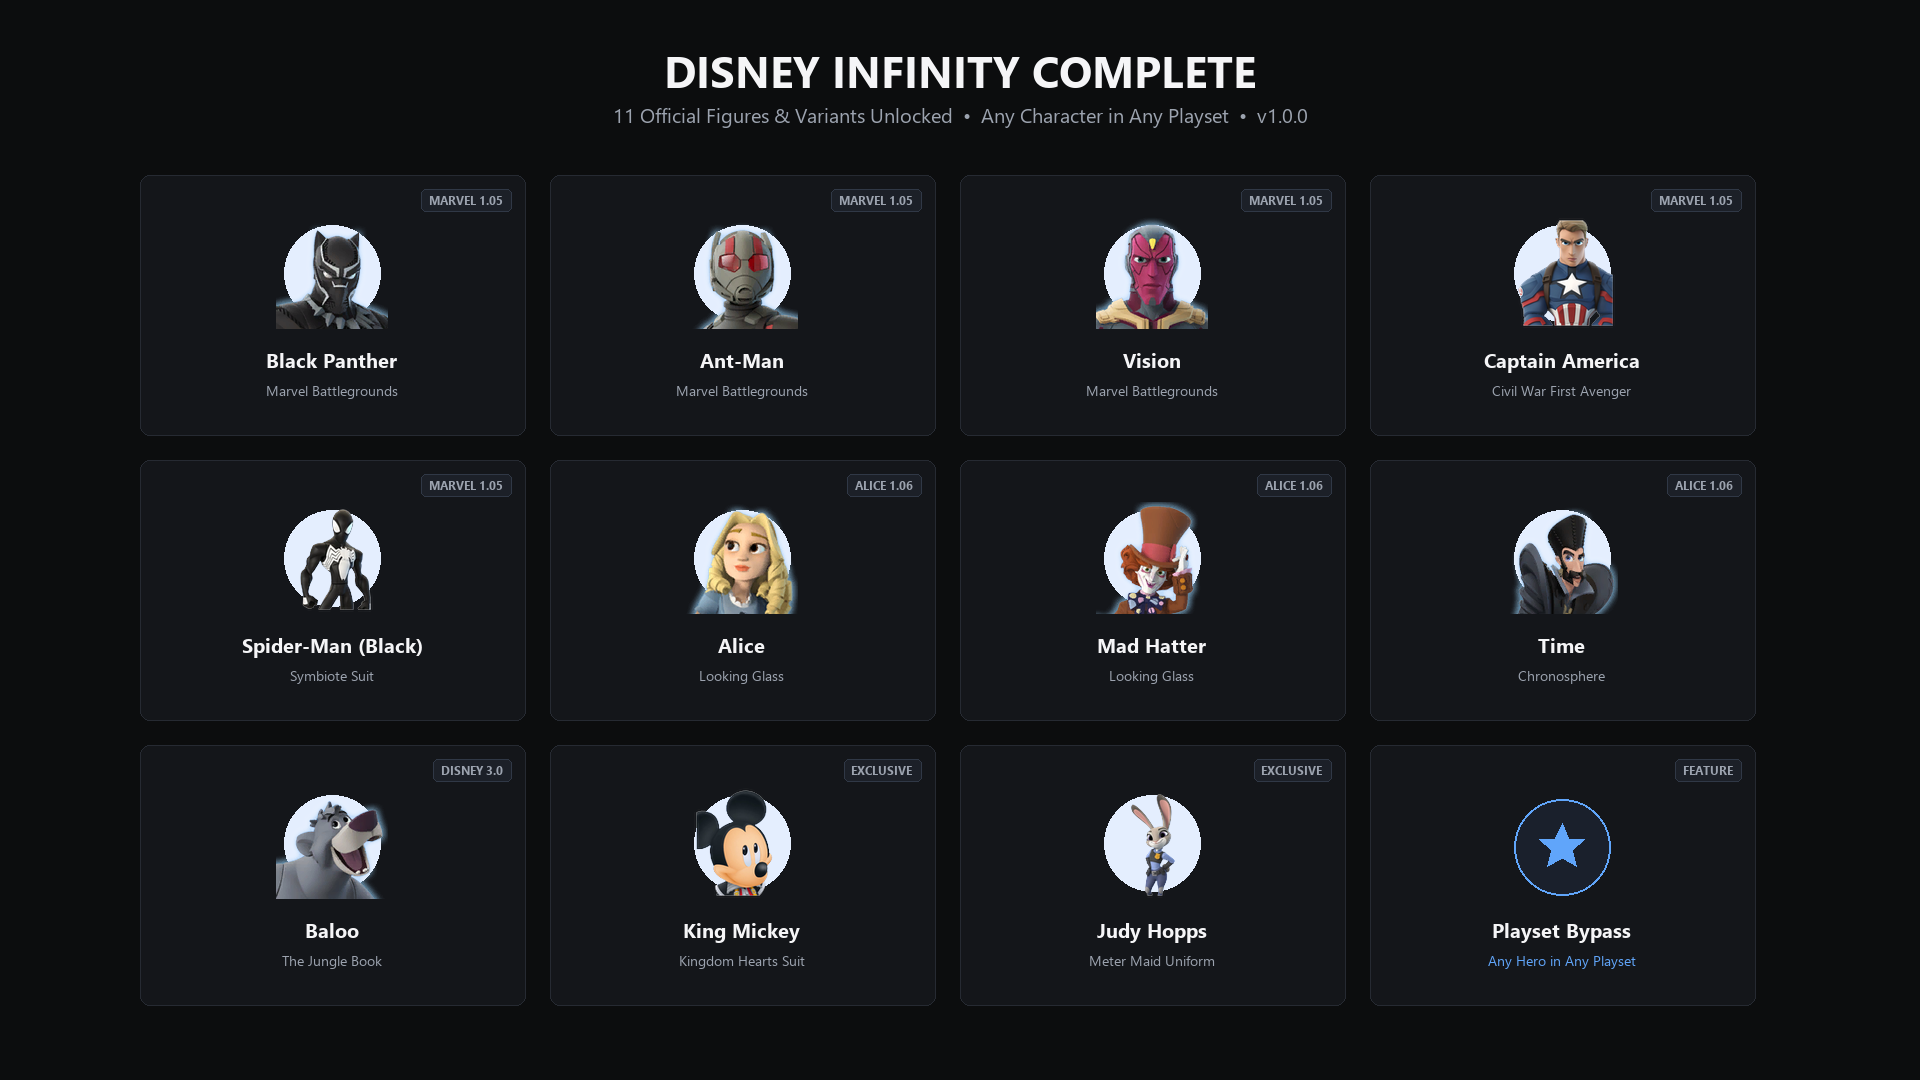
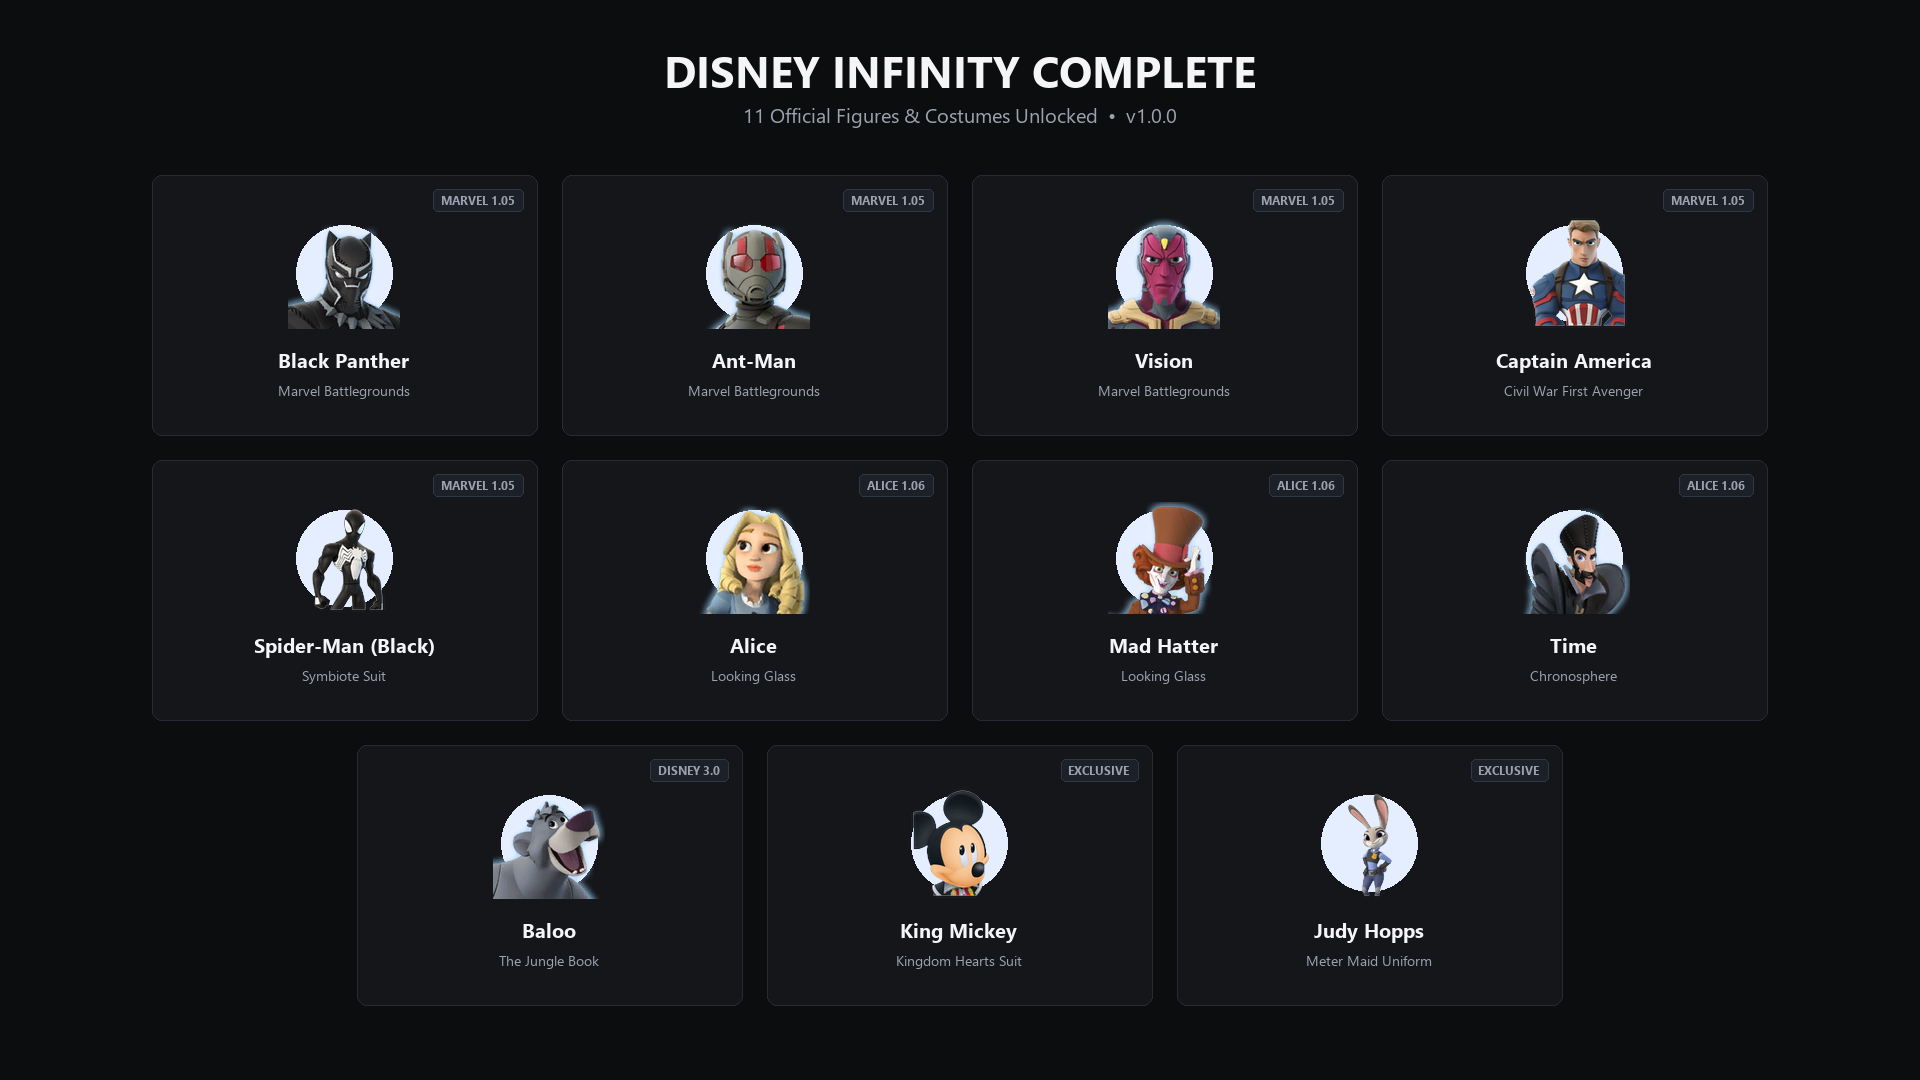
feat(release): clean v1.0.0 - remove redundant playset bypass and exclude preview image from release zip

diff --git a/README.md b/README.md
@@ -4,7 +4,7 @@
 
 A lightweight, 100% stable content unlock mod for **Disney Infinity 3.0: Gold Edition (PC, Steam)**, powered by **CrabeLoader**.
 
-This mod surfaces all fully completed, official figures and costumes that already ship inside the PC Steam release archives but are hidden or locked on PC, paired with AaBysT's famous **"Any Character in Any Playset"** system.
+This mod surfaces all fully completed, official figures and costumes that already ship inside the PC Steam release archives but are hidden or locked on PC.
 
 > [!NOTE]
 > **No game files are modified on disk.** All unlocks and patches are applied cleanly in memory at runtime.
@@ -35,14 +35,6 @@ Every character is registered directly into the in-game character grid through t
 
 ---
 
-## 🔓 Any Character in Any Playset (Anyone Can Cook II)
-
-Ported from AaBysT's legendary native patch engine:
-- **Play as anyone, anywhere:** Take Black Panther into the Star Wars galaxy, explore Marvel Battlegrounds with Alice, or bring King Mickey into the Twilight of the Republic playset.
-- **Toggle anytime:** Press **F5 > Heroes > Any character in any playset** (saved persistently across sessions).
-
----
-
 ## ⚔ Direct Warps (F5 Menu)
 
 - **Marvel Battlegrounds (1.05):** Instant access to the Avengers HQ campaign hub, combat tutorial, versus hub, and the seven official battle arenas:
@@ -61,7 +53,6 @@ Ported from AaBysT's legendary native patch engine:
        └── disney_infinity_complete/
            ├── mod.json
            ├── disney_infinity_complete.lua
-           ├── playset_bypass.lua
            ├── dory_avatars_patch.lua
            └── characters/
    ```
@@ -69,7 +60,7 @@ Ported from AaBysT's legendary native patch engine:
 
 ---
 
-## ℹ Scope & Finding Dory Note
+## 🤝 Compatibility
 
-- **Finding Dory (1.06):** Dory & Nemo require dedicated 3D aquatic swimming physics (`SwimMode`) and converted console assets. They are developed in a separate native expansion mod (`update_106`) to keep this mod lightweight, pure Lua, and 100% bug-free.
-- **Unfinished Prototypes:** Cancelled figurines with missing textures or no animations (Maui, Peter Pan, Spider-Gwen) are intentionally excluded from this stable release.
+- **CrabeMenu:** Fully compatible. If you wish to play as any hero in any playset, that feature is directly available in CrabeMenu's *Player & Heroes* options.
+- **Save Games:** Safe to add or remove at any time without altering your progression or save files.
